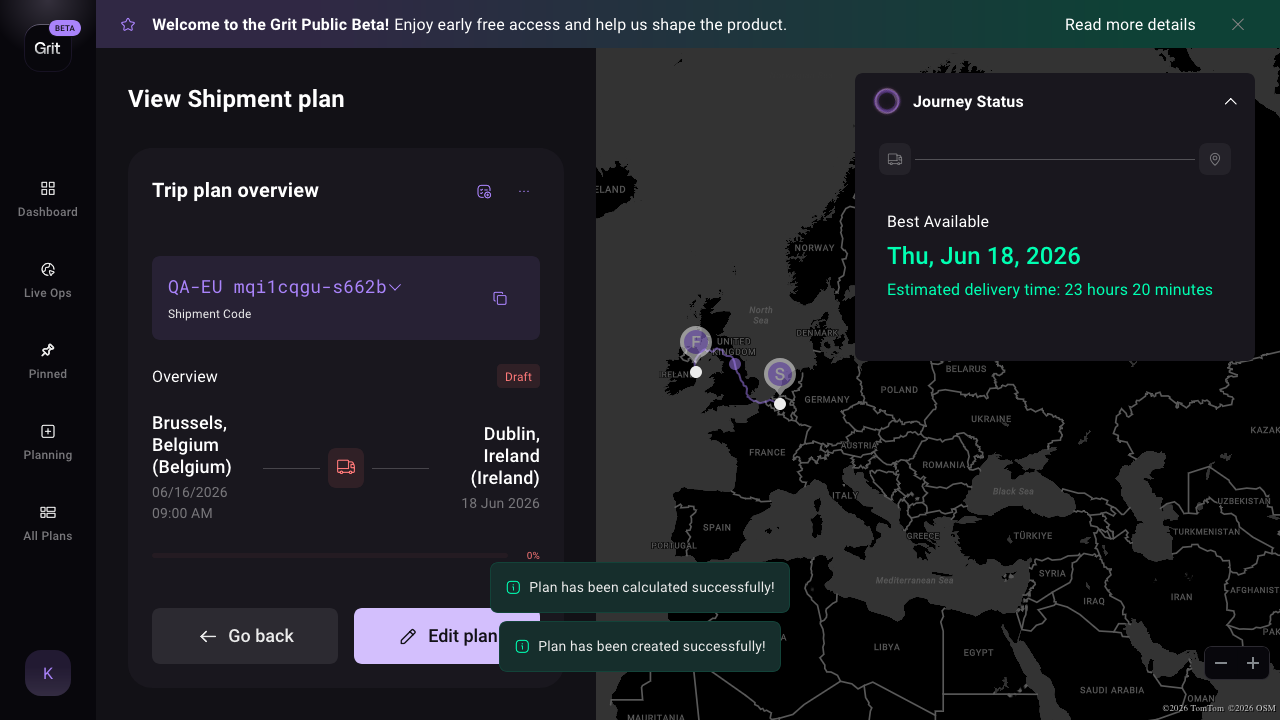
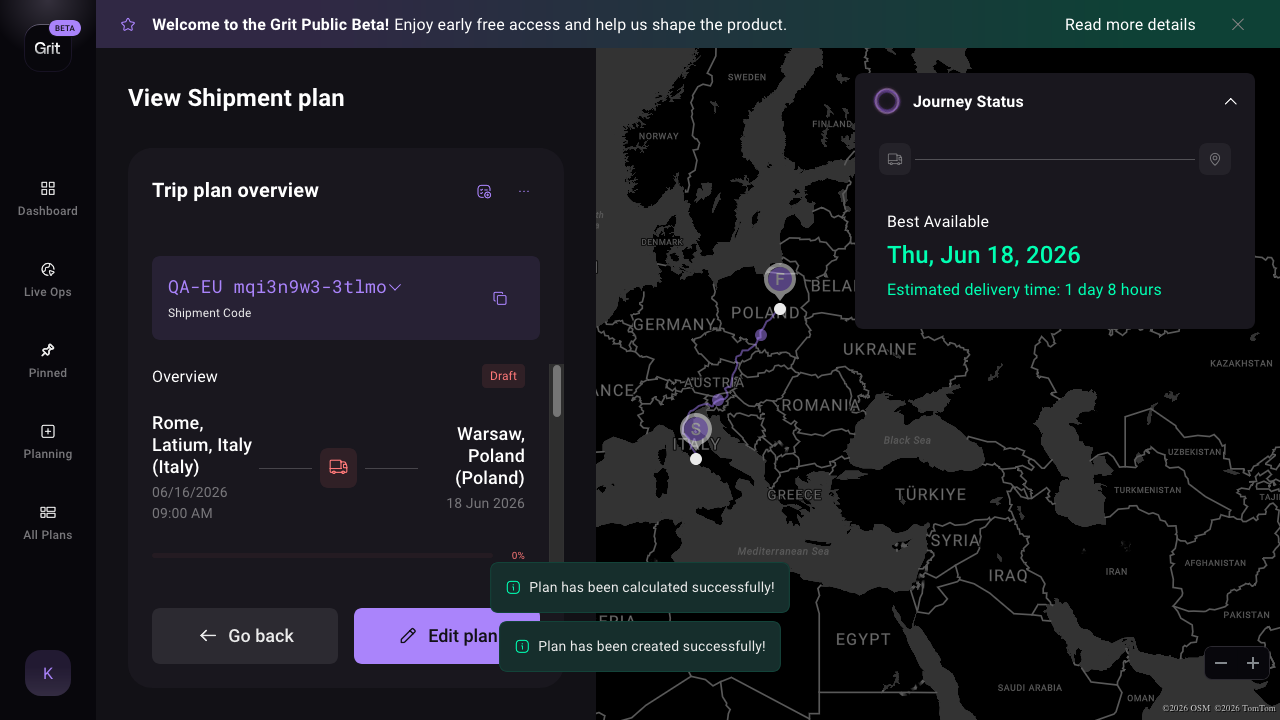
adding consol log to helpers auth for firefox debug

diff --git a/tests/helpers/auth.ts b/tests/helpers/auth.ts
@@ -17,20 +17,24 @@ export const hasCredentials = Boolean(USERNAME && PASSWORD);
 export async function login(page: Page): Promise<void> {
   // 1. Landing page → Login, which redirects to Microsoft Entra.
   await page.goto('https://dev.gritracking.com/');
+  console.log("After login click:", page.url());
   await page.getByRole('button', { name: 'Login' }).first().click();
   await page.waitForURL(/ciamlogin\.com/, { timeout: 20_000 });
+  console.log("After login click:", page.url());
 
   // 2. Email step.
   const email = page.locator('input[name="username"]');
   await email.waitFor({ state: 'visible', timeout: 20_000 });
   await email.fill(USERNAME!);
   await page.getByRole('button', { name: 'Next' }).click();
+  
 
   // 3. Password step.
   const password = page.locator('input[type="password"]');
   await password.waitFor({ state: 'visible', timeout: 20_000 });
   await password.fill(PASSWORD!);
   await page.getByRole('button', { name: /^(Sign in|Log in)$/ }).click();
+  console.log("After login click:", page.url());
 
   // 4. "Stay signed in?" → Yes (or Microsoft redirects straight through).
   const stayPrompt = page.getByRole('heading', { name: 'Stay signed in?' });
@@ -40,9 +44,12 @@ export async function login(page: Page): Promise<void> {
       .then(() => page.getByRole('button', { name: 'Yes' }).click()),
     page.waitForURL(/dev\.gritracking\.com\/dashboard/, { timeout: 30_000 }),
   ]).catch(() => {});
+  console.log("After login click:", page.url());
 
   // 5. Land on the dashboard. It's a real-time app (open websockets), so wait
   //    for a concrete nav element rather than 'networkidle', which never settles.
   await page.waitForURL(/dev\.gritracking\.com\/dashboard/, { timeout: 60_000 });
+  console.log("After login click:", page.url());
   await expect(page.getByText('Live Ops').first()).toBeVisible({ timeout: 30_000 });
+  console.log("After login click:", page.url());
 }

diff --git a/playwright-report/index.html b/playwright-report/index.html
@@ -87,4 +87,4 @@ Error generating stack: `+l.message+`
     <div id='root'></div>
   </body>
 </html>
[2 lines of base64/hex data omitted]